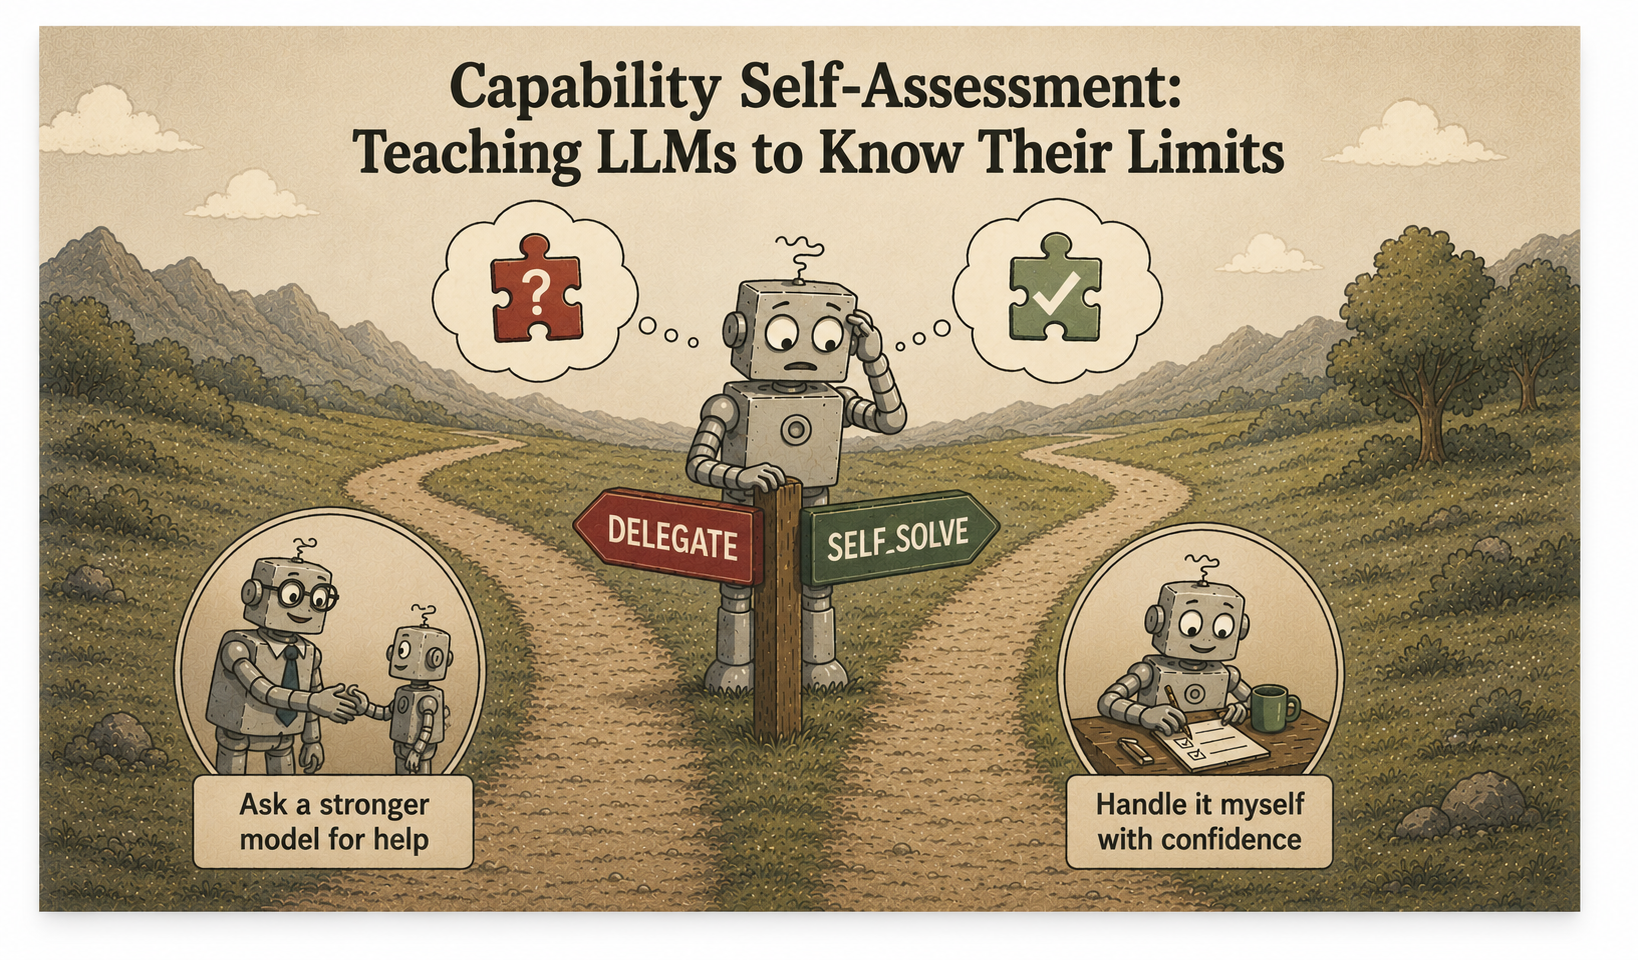
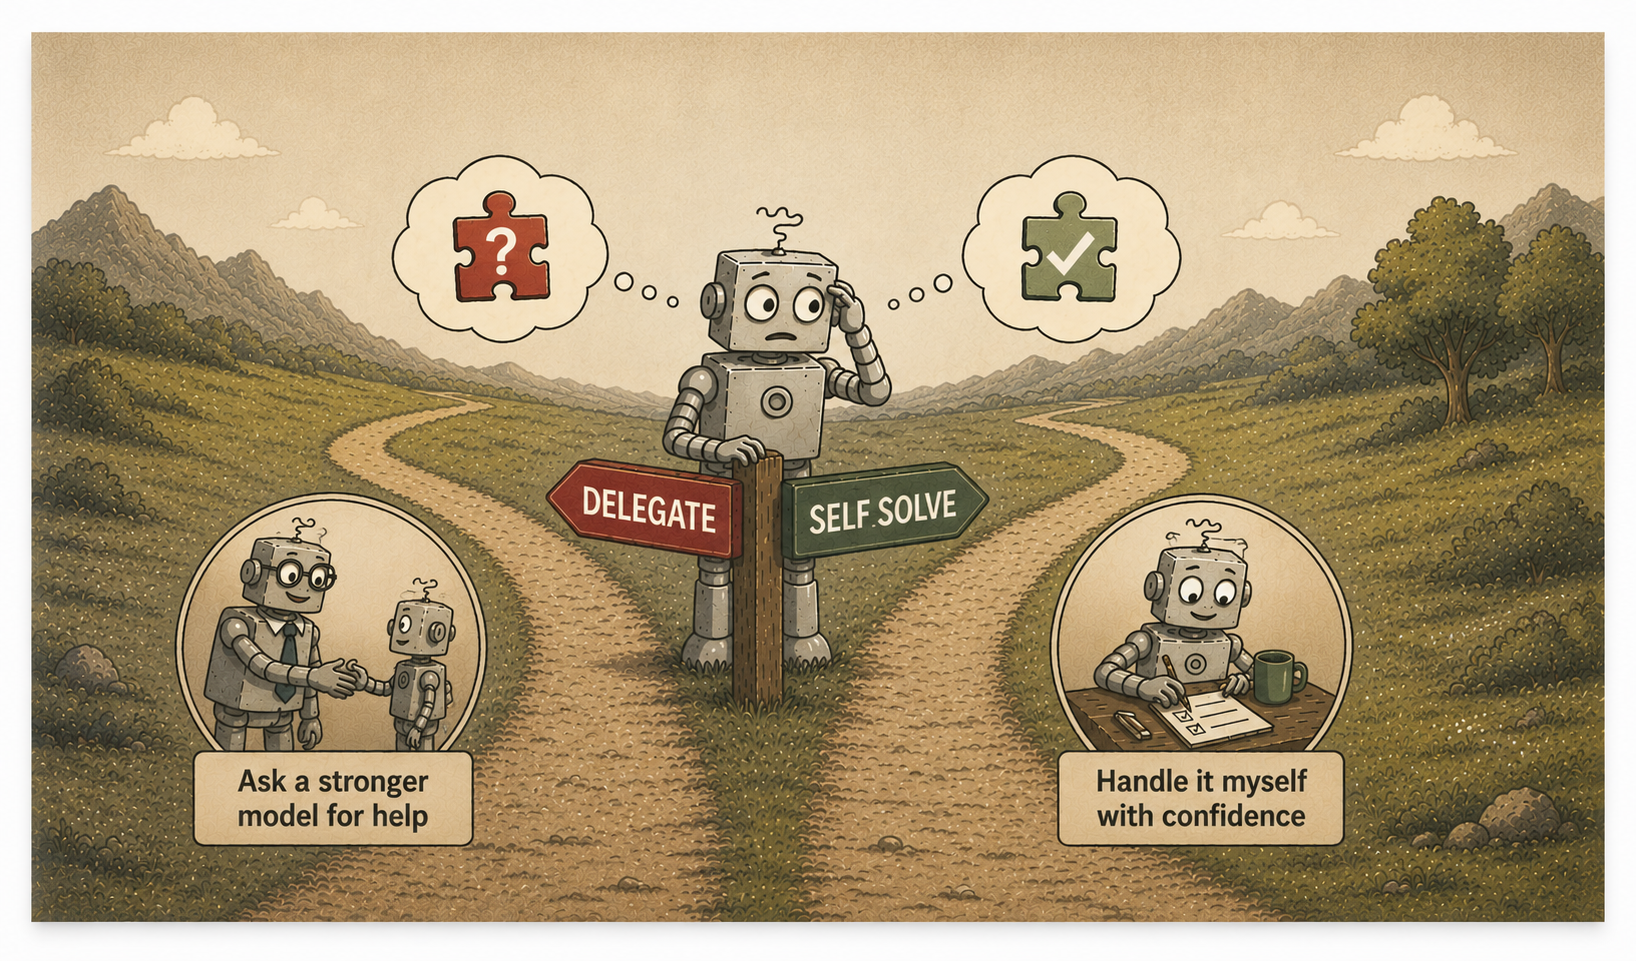
change the readme file and figure

diff --git a/README.md b/README.md
@@ -1,5 +1,4 @@
-<h1 align="center">Capability Self-Assessment</h1>
-<h3 align="center">Teaching LLMs to Know Their Limits</h3>
+<h1 align="center">Capability Self-Assessment: Teaching LLMs to Know Their Limits</h1>
 
 <p align="center">
   <a href="#"><img alt="Paper" src="https://img.shields.io/badge/Paper-arXiv-b31b1b.svg"></a>